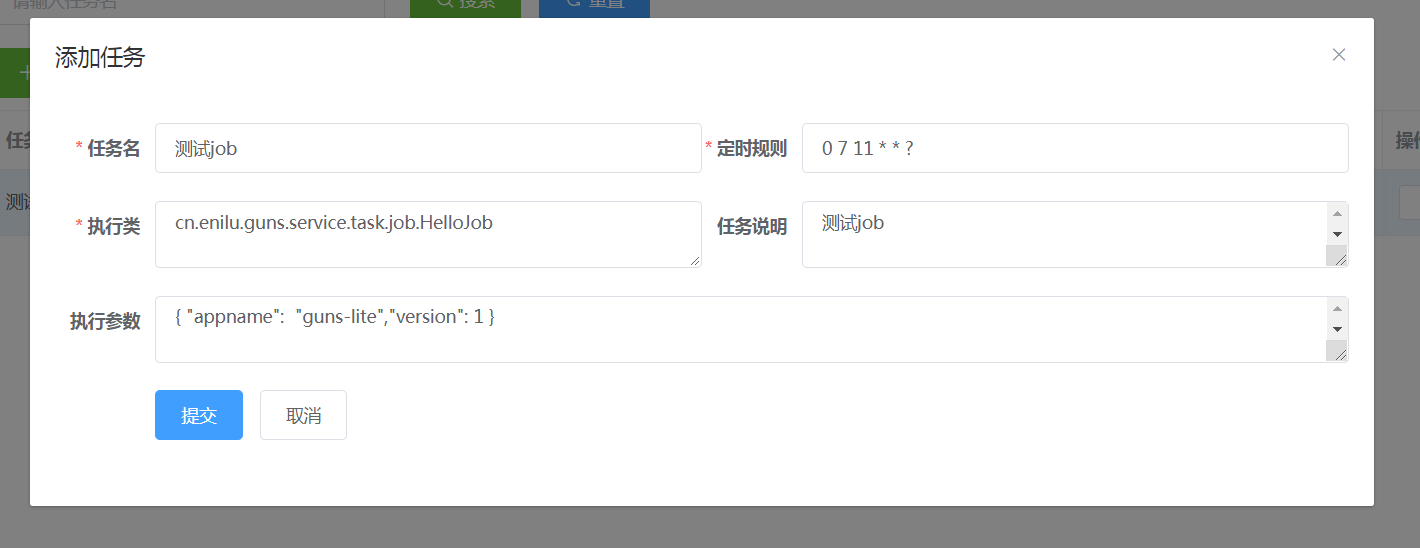
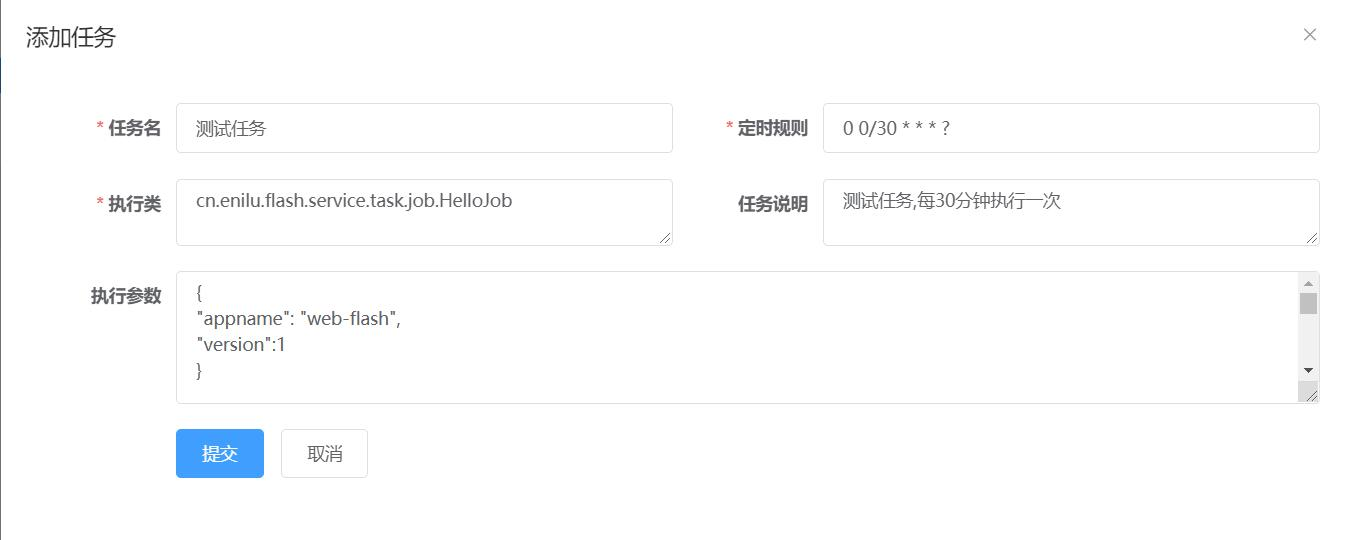
Change 完善文档

diff --git a/flash-vue-admin/src/views/dashboard/index.vue b/flash-vue-admin/src/views/dashboard/index.vue
@@ -11,7 +11,7 @@
           <el-col :span="12" >
             <div class="card-panel-text">{{ $t('dashboard.document') }}</div>
             <div class="card-panel-num">
-              <a href="http://enilu.gitee.io/web-flash" target="_blank">Document</a>
+              <a href="http://webflash.enilu.cn" target="_blank">Document</a>
             </div>
           </el-col>
         </el-card>

diff --git a/flash-api/src/main/java/cn/enilu/flash/api/controller/AccountController.java b/flash-api/src/main/java/cn/enilu/flash/api/controller/AccountController.java
@@ -108,10 +108,11 @@ public class AccountController extends BaseController {
                 return Rets.failure("该用户未配置权限");
             }
             ShiroUser shiroUser = tokenCache.getUser(getToken());
-            List<RouterMenu> list = menuService.getSideBarMenus(shiroUser.getRoleList());
             Map map = Maps.newHashMap("name", user.getName(), "role", "admin", "roles", shiroUser.getRoleCodes());
-            map.put("permissions", shiroUser.getUrls());
+            List<RouterMenu> list = menuService.getSideBarMenus(shiroUser.getRoleList());
             map.put("menus",list);
+            map.put("permissions", shiroUser.getUrls());
+
             Map profile = (Map) Mapl.toMaplist(user);
             profile.put("dept", shiroUser.getDeptName());
             profile.put("roles", shiroUser.getRoleNames());

diff --git a/flash-workflow/src/main/java/cn/enilu/flash/api/controller/workflow/WorkFlowRequestController.java b/flash-workflow/src/main/java/cn/enilu/flash/api/controller/workflow/WorkFlowRequestController.java
@@ -32,7 +32,7 @@ public class WorkFlowRequestController extends BaseController {
     private TokenCache tokenCache;
 
     @GetMapping(value = "/list")
-    @RequiresPermissions(value = "/workflow/request")
+    @RequiresPermissions(value = "/workflow/request1")
     public Object list(@RequestParam(required = false) Long id) {
         Page<WorkFlowRequest> page = new PageFactory<WorkFlowRequest>().defaultPage();
         page = workFlowRequestService.queryPage(page);

diff --git a/docs/guide/action/task.md b/docs/guide/action/task.md
@@ -56,7 +56,7 @@ CREATE TABLE `t_sys_task_log` (
 
 ### 创建一个定时任务类
 
-比如我创建一个测试任务类
+比如本项目提供了一个测试定时任务：
 ```java
 package cn.enilu.flash.service.task.job;
 import cn.enilu.flash.service.task.JobExecuter;
@@ -65,8 +65,12 @@ import org.springframework.stereotype.Component;
 public class HelloJob extends JobExecuter {
     @Override
     public void execute(Map<String, Object> dataMap) throws Exception {
-        System.out.println("输出配置参数如下 :"+JsonUtil.toJson(dataMap));
-        System.out.println("这里可以编写任意其他业务逻辑");
+        //具体业务逻辑：获取id为1的系统参数记录，修改其备注信息
+        System.out.println("定时任务配置参数 :"+JsonUtil.toJson(dataMap));
+        Cfg cfg = cfgService.get(1L);
+        cfg.setCfgDesc("update by " + DateUtil.getTime());
+        cfgService.update(cfg);
+        logger.info("hello :" + JsonUtil.toJson(dataMap));
     }
 }
 

diff --git a/docs/guide/feature/permissionMgrVue.md b/docs/guide/feature/permissionMgrVue.md
@@ -19,15 +19,16 @@
 
  ## 配置拦截器
 
-cn.enilu.flash.api.interceptor.JwtFilter中配置拦截器，拦截要过滤的请求地址，具体请参考源代码
+- cn.enilu.flash.api.interceptor.JwtFilter为权限拦截器，
+- 具体针对哪些地址做什么样的处理策略，参考：cn.enilu.flash.api.config.ShiroConfig中的配置
 
 
 ## 左侧菜单导航的权限控制
 用户登陆成功后，会根据用户所拥有的角色配置的菜单生成路由表数据返回到前端：cn.enilu.flash.api.controller.AccountController：
 ```java
 //获取用户可以操作的菜单列表
-List menus = menuRepository.getMenusByRoleIds(shiroUser.getRoleList());
-map.put("menus",menus);
+  List<RouterMenu> list = menuService.getSideBarMenus(shiroUser.getRoleList());
+  map.put("menus",list);
 ```
 前端接收到菜单列表信息后根据是否有这些菜单列表的操作权限来生成路由表：flash-vue-admin/src/store/modules/permission.js
 

diff --git a/docs/guide/feature/exportExcel.md b/docs/guide/feature/exportExcel.md
@@ -66,7 +66,7 @@ public FileInfo createExcel(String template, String fileName, Map<String, Object
 ```
 
 
-值得注意的时候，导出的excel文件会在存放在t_sys_file_info表中和对应的系统上传目录下，如果导出功能使用频率比较高的话，时间久了会生成很多文件信息。
+值得注意的是，导出的excel文件会在存放在t_sys_file_info表中和对应的系统目录下，如果导出功能使用频率比较高的话，时间久了会生成很多文件信息。
 那么就需要定时清理这些数据。
 
 聪明的你一定想到用定时任务来做这件事情。如果你对定时任务不熟悉，可以参考这个文档：[定时任务管理](../action/task.md)

diff --git a/docs/guide/other/changeLog.md b/docs/guide/other/changeLog.md
@@ -1,5 +1,5 @@
 # change log
-##2.1
+## 2.1
 [gitee](https://gitee.com/enilu/web-flash/releases/2.1)
 [github](https://github.com/enilu/web-flash/releases/tag/2.1)
 ### Issues
@@ -19,9 +19,9 @@
 [gitee](https://gitee.com/enilu/web-flash/releases/2.0)
 [github](https://github.com/enilu/web-flash/releases/tag/2.0)
 ### Issues
-Change 完善消息发送服务功能
-Change 完善参数管理功能细节
-Change 完善账号管理逻辑
+- Change 完善消息发送服务功能
+- Change 完善参数管理功能细节
+- Change 完善账号管理逻辑
 ### Fixes
 - Fix 参数管理中参数值长度校验问题
 - Fix 自动生成hibernate_sequence的问题

diff --git a/docs/ecosystem/code-generator.md b/docs/ecosystem/code-generator.md
@@ -27,7 +27,6 @@ public class Boy extends BaseEntity {
     - @Table注解要使用org.hibernate.annotations.Table 不要使用javax.persistence.Table
     - @Table注解 必须配置表名(applyiesTo)和注释(comment)
     - @Column注解必须配置columnDefinition来表述列信息(英文全部大写)：包括类型,注释COMMENT
-    - 实体类必须继承BaseEntity
 - 实体类准备好了后,打开实体类，右键选择Generator(或者Alt+Insert)-->web-flash-mvc，弹出如下图所示对话框  
  ![](../img/plugin/generator.jpg)
 
